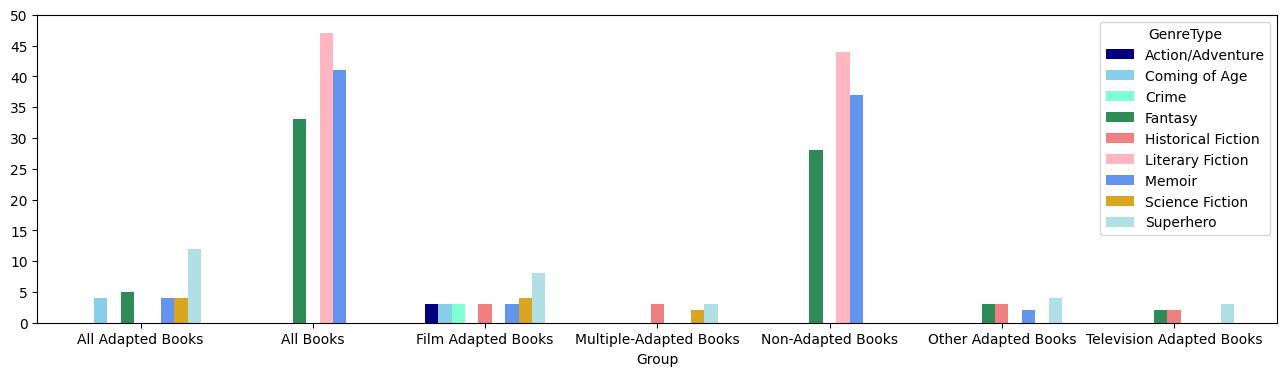
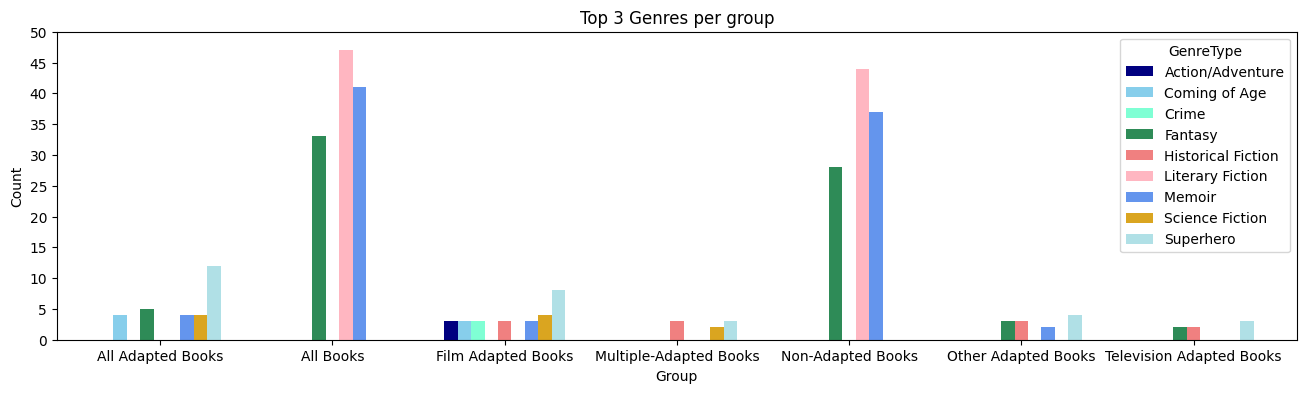
Built site for gh-pages

diff --git a/posts/GraphicNovels.html b/posts/GraphicNovels.html
@@ -361,7 +361,7 @@ pre > code.sourceCode > span > a:first-child::before { text-decoration: underlin
 <p>**Columns that had a dominant value were not included, as it is likely to be the same for all books.*</p>
 <section id="below-are-some-examples-of-exploratory-data-visualizations-that-are-relevant-to-the-study" class="level4">
 <h4 class="anchored" data-anchor-id="below-are-some-examples-of-exploratory-data-visualizations-that-are-relevant-to-the-study">Below are some examples of exploratory data visualizations that are relevant to the study:</h4>
-<div id="6c256ca2" class="cell" data-execution_count="40">
+<div id="6c256ca2" class="cell" data-execution_count="16">
 <div class="sourceCode cell-code" id="cb16"><pre class="sourceCode python code-with-copy"><code class="sourceCode python"><span id="cb16-1"><a href="#cb16-1" aria-hidden="true" tabindex="-1"></a>adaptations[<span class="st">'Year'</span>].value_counts().plot(kind<span class="op">=</span><span class="st">'bar'</span>, color<span class="op">=</span><span class="st">'brown'</span>, figsize<span class="op">=</span>(<span class="dv">10</span>, <span class="dv">2</span>), title<span class="op">=</span><span class="st">'Frequency of Adaptations released per year'</span>)</span></code><button title="Copy to Clipboard" class="code-copy-button"><i class="bi"></i></button></pre></div>
 <div class="cell-output cell-output-display">
 <div>
@@ -372,7 +372,7 @@ pre > code.sourceCode > span > a:first-child::before { text-decoration: underlin
 </div>
 </div>
 <p>Most of <strong>adaptations</strong> were published in the 2000s, specifically between 2005-2013. Adaptations began releasing in the early 1970s.</p>
-<div id="7e1c4534" class="cell" data-execution_count="41">
+<div id="7e1c4534" class="cell" data-execution_count="17">
 <div class="sourceCode cell-code" id="cb17"><pre class="sourceCode python code-with-copy"><code class="sourceCode python"><span id="cb17-1"><a href="#cb17-1" aria-hidden="true" tabindex="-1"></a>graphic_novels[<span class="st">'Year'</span>].value_counts().plot(kind<span class="op">=</span><span class="st">'bar'</span>, color<span class="op">=</span><span class="st">'pink'</span>, figsize<span class="op">=</span>(<span class="dv">10</span>, <span class="dv">2</span>), title<span class="op">=</span><span class="st">'Frequency of Graphic Novel released per year'</span>)</span></code><button title="Copy to Clipboard" class="code-copy-button"><i class="bi"></i></button></pre></div>
 <div class="cell-output cell-output-display">
 <div>
@@ -383,7 +383,7 @@ pre > code.sourceCode > span > a:first-child::before { text-decoration: underlin
 </div>
 </div>
 <p>Majority of <strong>graphic novels</strong> were published in the 2000s. There is an upward trend in publication of graphic novels as the years go by. The most popular year to publish was 2015.</p>
-<div id="1a533a23" class="cell" data-execution_count="42">
+<div id="1a533a23" class="cell" data-execution_count="18">
 <div class="sourceCode cell-code" id="cb18"><pre class="sourceCode python code-with-copy"><code class="sourceCode python"><span id="cb18-1"><a href="#cb18-1" aria-hidden="true" tabindex="-1"></a>graphic_novels.plot.scatter(x <span class="op">=</span> <span class="st">'Avg Rating'</span>, y <span class="op">=</span> <span class="st">'Number of Ratings'</span>, color<span class="op">=</span><span class="st">'pink'</span>, figsize<span class="op">=</span>(<span class="dv">10</span>, <span class="dv">3</span>), marker <span class="op">=</span> <span class="st">'o'</span>, title<span class="op">=</span><span class="st">'Number of Ratings vs. Average Rating Score'</span>)</span></code><button title="Copy to Clipboard" class="code-copy-button"><i class="bi"></i></button></pre></div>
 <div class="cell-output cell-output-display">
 <div>
@@ -677,8 +677,8 @@ pre > code.sourceCode > span > a:first-child::before { text-decoration: underlin
 </section>
 <section id="the-ideal-genre" class="level3">
 <h3 class="anchored" data-anchor-id="the-ideal-genre">The Ideal Genre</h3>
-<div id="f172598f" class="cell" data-scrolled="true" data-execution_count="39">
-<div class="sourceCode cell-code" id="cb39"><pre class="sourceCode python code-with-copy"><code class="sourceCode python"><span id="cb39-1"><a href="#cb39-1" aria-hidden="true" tabindex="-1"></a>genre_plot <span class="op">=</span> genre_traits_df.plot.bar(figsize<span class="op">=</span>(<span class="dv">16</span>,<span class="dv">4</span>), xlabel<span class="op">=</span><span class="st">'Group'</span>, width <span class="op">=</span> <span class="fl">0.7</span>, rot<span class="op">=</span><span class="dv">0</span>, color<span class="op">=</span>[<span class="st">'navy'</span>, <span class="st">'skyblue'</span>, <span class="st">'aquamarine'</span>, <span class="st">'seagreen'</span>, <span class="st">'lightcoral'</span>, <span class="st">'lightpink'</span>, <span class="st">'cornflowerblue'</span>, <span class="st">'goldenrod'</span>, <span class="st">'powderblue'</span>])</span>
+<div id="f172598f" class="cell" data-scrolled="true" data-execution_count="40">
+<div class="sourceCode cell-code" id="cb39"><pre class="sourceCode python code-with-copy"><code class="sourceCode python"><span id="cb39-1"><a href="#cb39-1" aria-hidden="true" tabindex="-1"></a>genre_plot <span class="op">=</span> genre_traits_df.plot.bar(figsize<span class="op">=</span>(<span class="dv">16</span>,<span class="dv">4</span>), xlabel<span class="op">=</span><span class="st">'Group'</span>, width <span class="op">=</span> <span class="fl">0.7</span>, rot<span class="op">=</span><span class="dv">0</span>, color<span class="op">=</span>[<span class="st">'navy'</span>, <span class="st">'skyblue'</span>, <span class="st">'aquamarine'</span>, <span class="st">'seagreen'</span>, <span class="st">'lightcoral'</span>, <span class="st">'lightpink'</span>, <span class="st">'cornflowerblue'</span>, <span class="st">'goldenrod'</span>, <span class="st">'powderblue'</span>], title<span class="op">=</span><span class="st">'Top 3 Genres per group'</span>, ylabel<span class="op">=</span><span class="st">'Count'</span>)</span>
 <span id="cb39-2"><a href="#cb39-2" aria-hidden="true" tabindex="-1"></a>ticks <span class="op">=</span> np.arange(<span class="dv">0</span>, <span class="dv">55</span>, <span class="dv">5</span>)</span>
 <span id="cb39-3"><a href="#cb39-3" aria-hidden="true" tabindex="-1"></a>genre_plot.set_yticks(ticks)</span>
 <span id="cb39-4"><a href="#cb39-4" aria-hidden="true" tabindex="-1"></a>plt.show()</span></code><button title="Copy to Clipboard" class="code-copy-button"><i class="bi"></i></button></pre></div>

diff --git a/index.html b/index.html
@@ -205,7 +205,7 @@ window.Quarto = {
 
 <div class="quarto-listing quarto-listing-container-default" id="listing-listing">
 <div class="list quarto-listing-default">
-<div class="quarto-post image-right" data-index="0" data-listing-date-sort="1722384000000" data-listing-file-modified-sort="1722379011924" data-listing-date-modified-sort="1722297600000" data-listing-reading-time-sort="17" data-listing-word-count-sort="3251">
+<div class="quarto-post image-right" data-index="0" data-listing-date-sort="1722384000000" data-listing-file-modified-sort="1722390959399" data-listing-date-modified-sort="1722297600000" data-listing-reading-time-sort="17" data-listing-word-count-sort="3251">
 <div class="thumbnail">
 <p><a href="./posts/GraphicNovels.html" class="no-external"></a></p><a href="./posts/GraphicNovels.html" class="no-external">
 <p class="card-img-top"><img src="posts/GraphicNovels_files/figure-html/cell-17-output-1.png"  class="thumbnail-image card-img"/></p>
